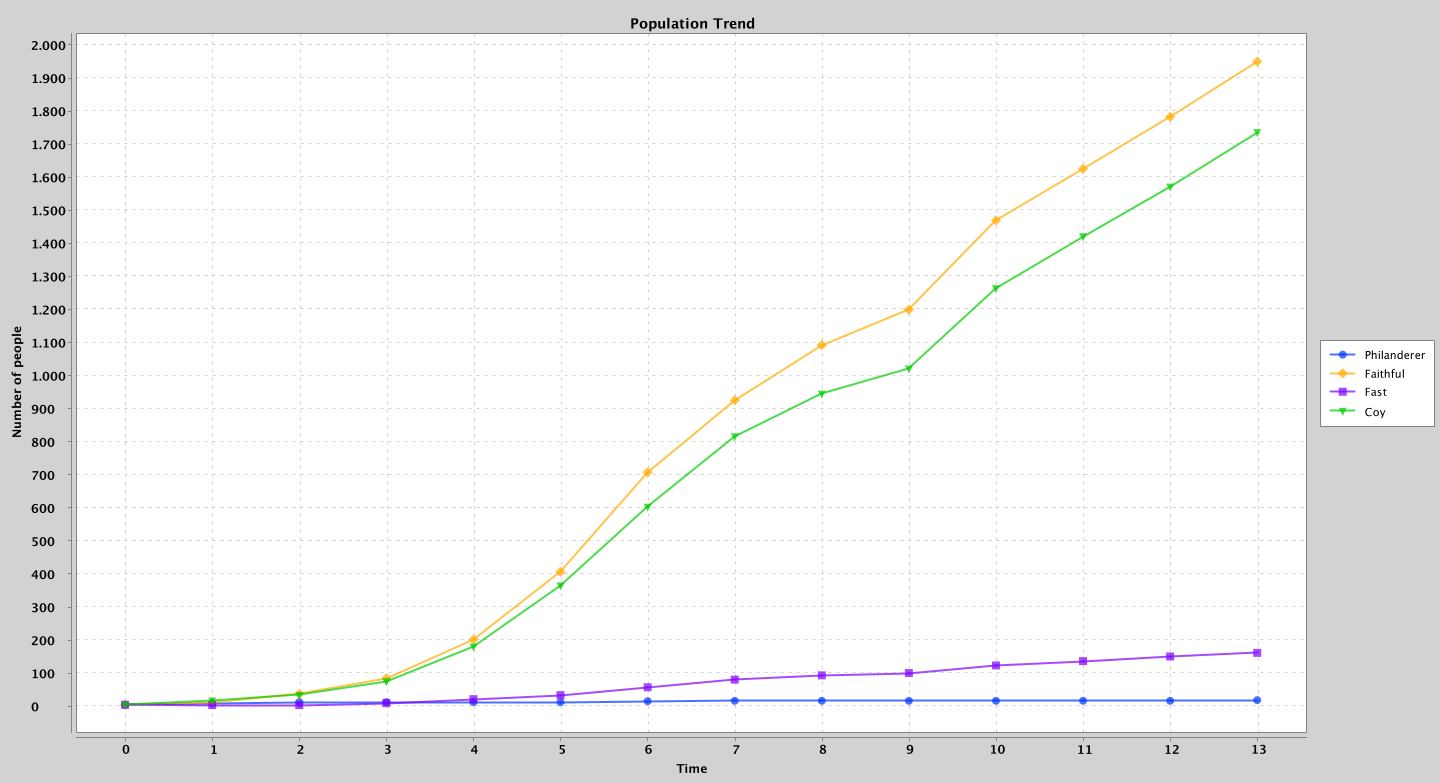
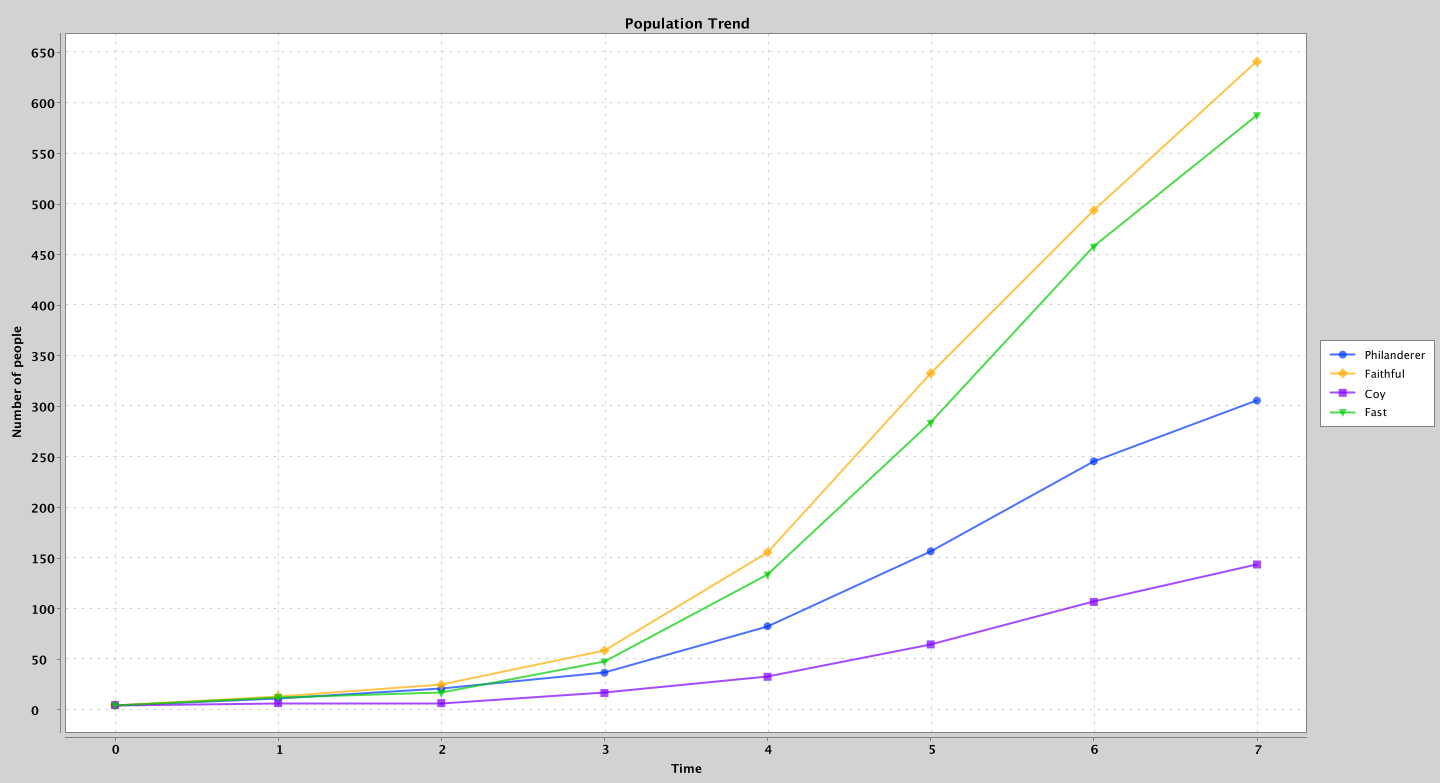
ho commentato max children e tolto marriage

diff --git a/src/Population.java b/src/Population.java
@@ -130,14 +130,14 @@ public class Population {
         XYChart chart = new XYChartBuilder().width(1600).height(800).title("Population Trend").xAxisTitle("Time").yAxisTitle("Number of people").build();
         chart.addSeries("Philanderer", Time, Y_Phil);
         chart.addSeries("Faithful", Time, Y_Faith);
-        chart.addSeries("Fast", Time, Y_Fast);
         chart.addSeries("Coy", Time, Y_Coy);
+        chart.addSeries("Fast", Time, Y_Fast);
 
         XYChart chart_ratio = new XYChartBuilder().width(1600).height(800).title("Population Ratio").xAxisTitle("Time").yAxisTitle("Ratio of people").build();
         chart_ratio.addSeries("Philanderer_ratio", Time, Ratios[0]);
         chart_ratio.addSeries("Faithful_ratio", Time, Ratios[1]);
-        chart_ratio.addSeries("Fast_ratio", Time, Ratios[2]);
-        chart_ratio.addSeries("Coy_ratio", Time, Ratios[3]);
+        chart_ratio.addSeries("Coy_ratio", Time, Ratios[2]);
+        chart_ratio.addSeries("Fast_ratio", Time, Ratios[3]);
 
         new SwingWrapper(chart).displayChart();
         new SwingWrapper(chart_ratio).displayChart();

diff --git a/src/Female.java b/src/Female.java
@@ -20,9 +20,11 @@ public class Female extends Individual{
                         return;
                     }
                     // start check children
+                    /*
                     if (this.numberChildren >= maxChildren) {
                         return;
                     }
+                     */
                     // end checks
                     sleep(25); // troppo irrequieti
                 } catch (InterruptedException dying) {}
@@ -33,5 +35,5 @@ public class Female extends Individual{
         // todo per ora muoiono solo le fast
     }
 
-    public synchronized void giveBirth(Male gentleman){}
+    public synchronized void giveBirth(Male gentleman) throws InterruptedException{}
 }

diff --git a/src/Male.java b/src/Male.java
@@ -20,9 +20,11 @@ public class Male extends Individual{
                         return;
                     }
                     // start check children
+                    /*
                     if (this.numberChildren >= maxChildren) {
                         return;
                     }
+                     */
                     // end checks
                     sleep(25); // troppo irrequieti
                 } catch (InterruptedException dying) {}

diff --git a/src/Coy.java b/src/Coy.java
@@ -14,12 +14,13 @@ public class Coy extends Female {
     }
 
     @Override
-    public synchronized void giveBirth(Male gentleman){
+    public synchronized void giveBirth(Male gentleman) throws InterruptedException{
 
         if (isFaithful(gentleman.type)){
 
             gentleman.points += (a-b/2-c);
             this.points += (a-b/2-c);
+            //sleep(10); // courtship
 
             if(random.nextBoolean()){
                 Coy ind = new Coy();

diff --git a/src/Main.java b/src/Main.java
@@ -18,7 +18,7 @@ public class Main {
         Population.updateGraph(0); // graph at time zero
 
         int i = 0;
-        while (i < 13) {
+        while (i < 7) {
             i++;
             Time.dayTime(50); // true
             Time.nightTime(i); // false
